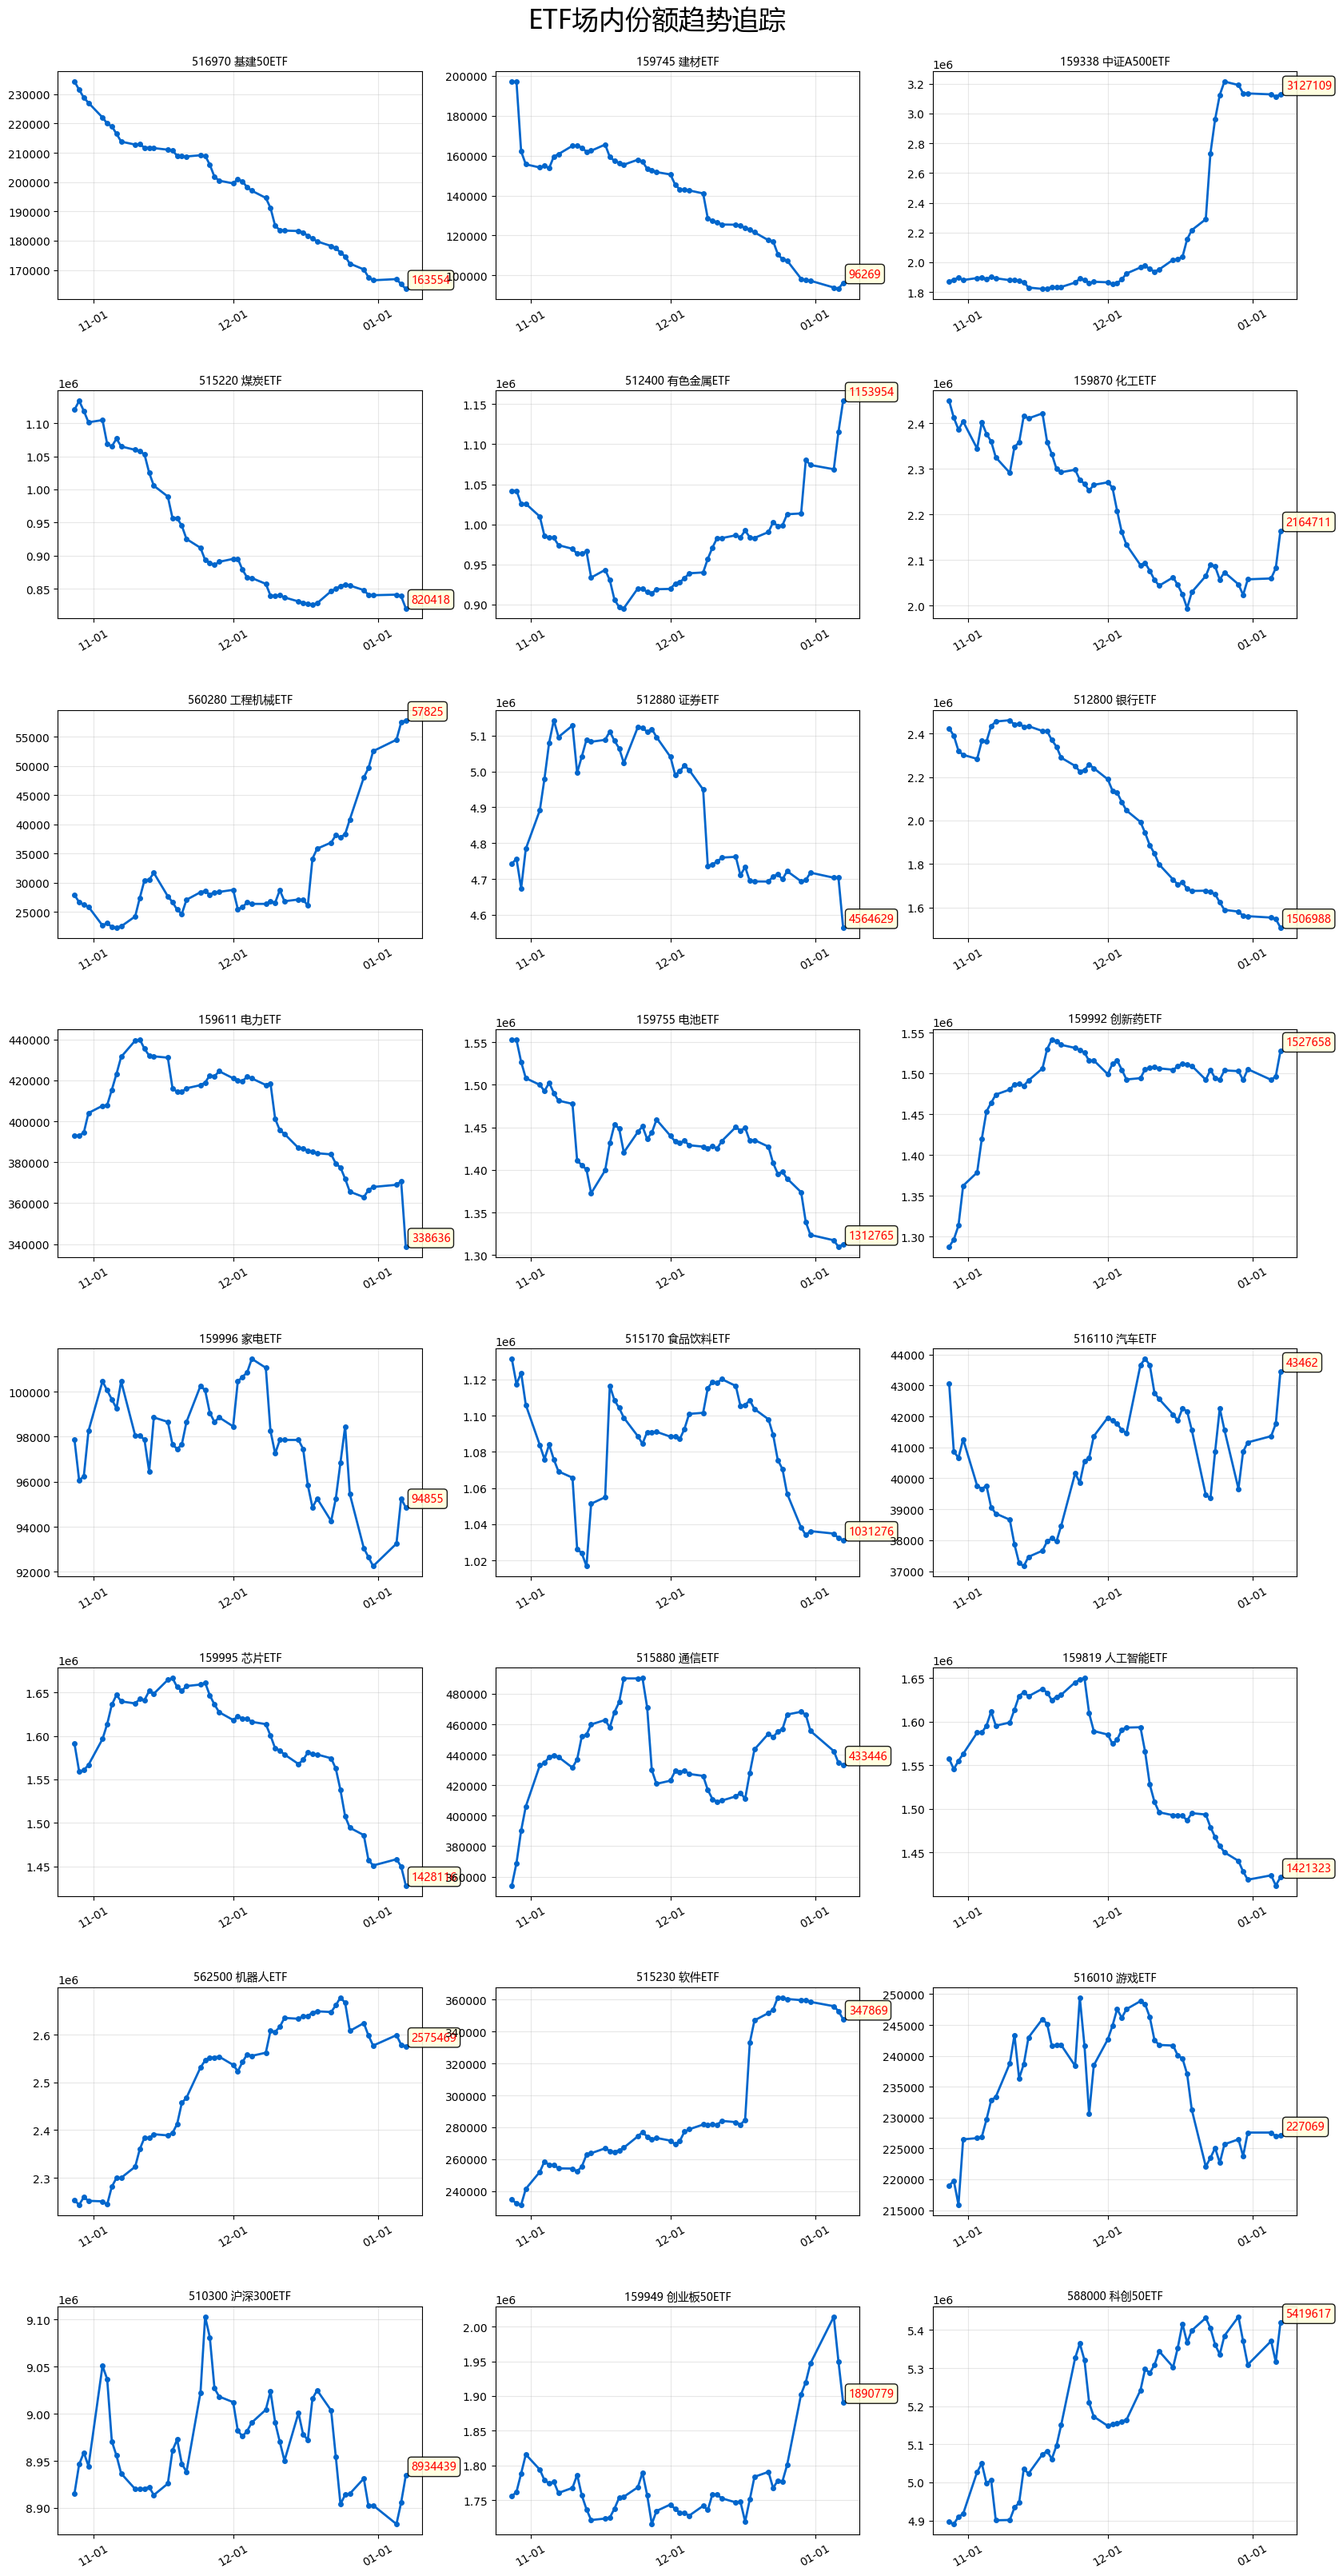
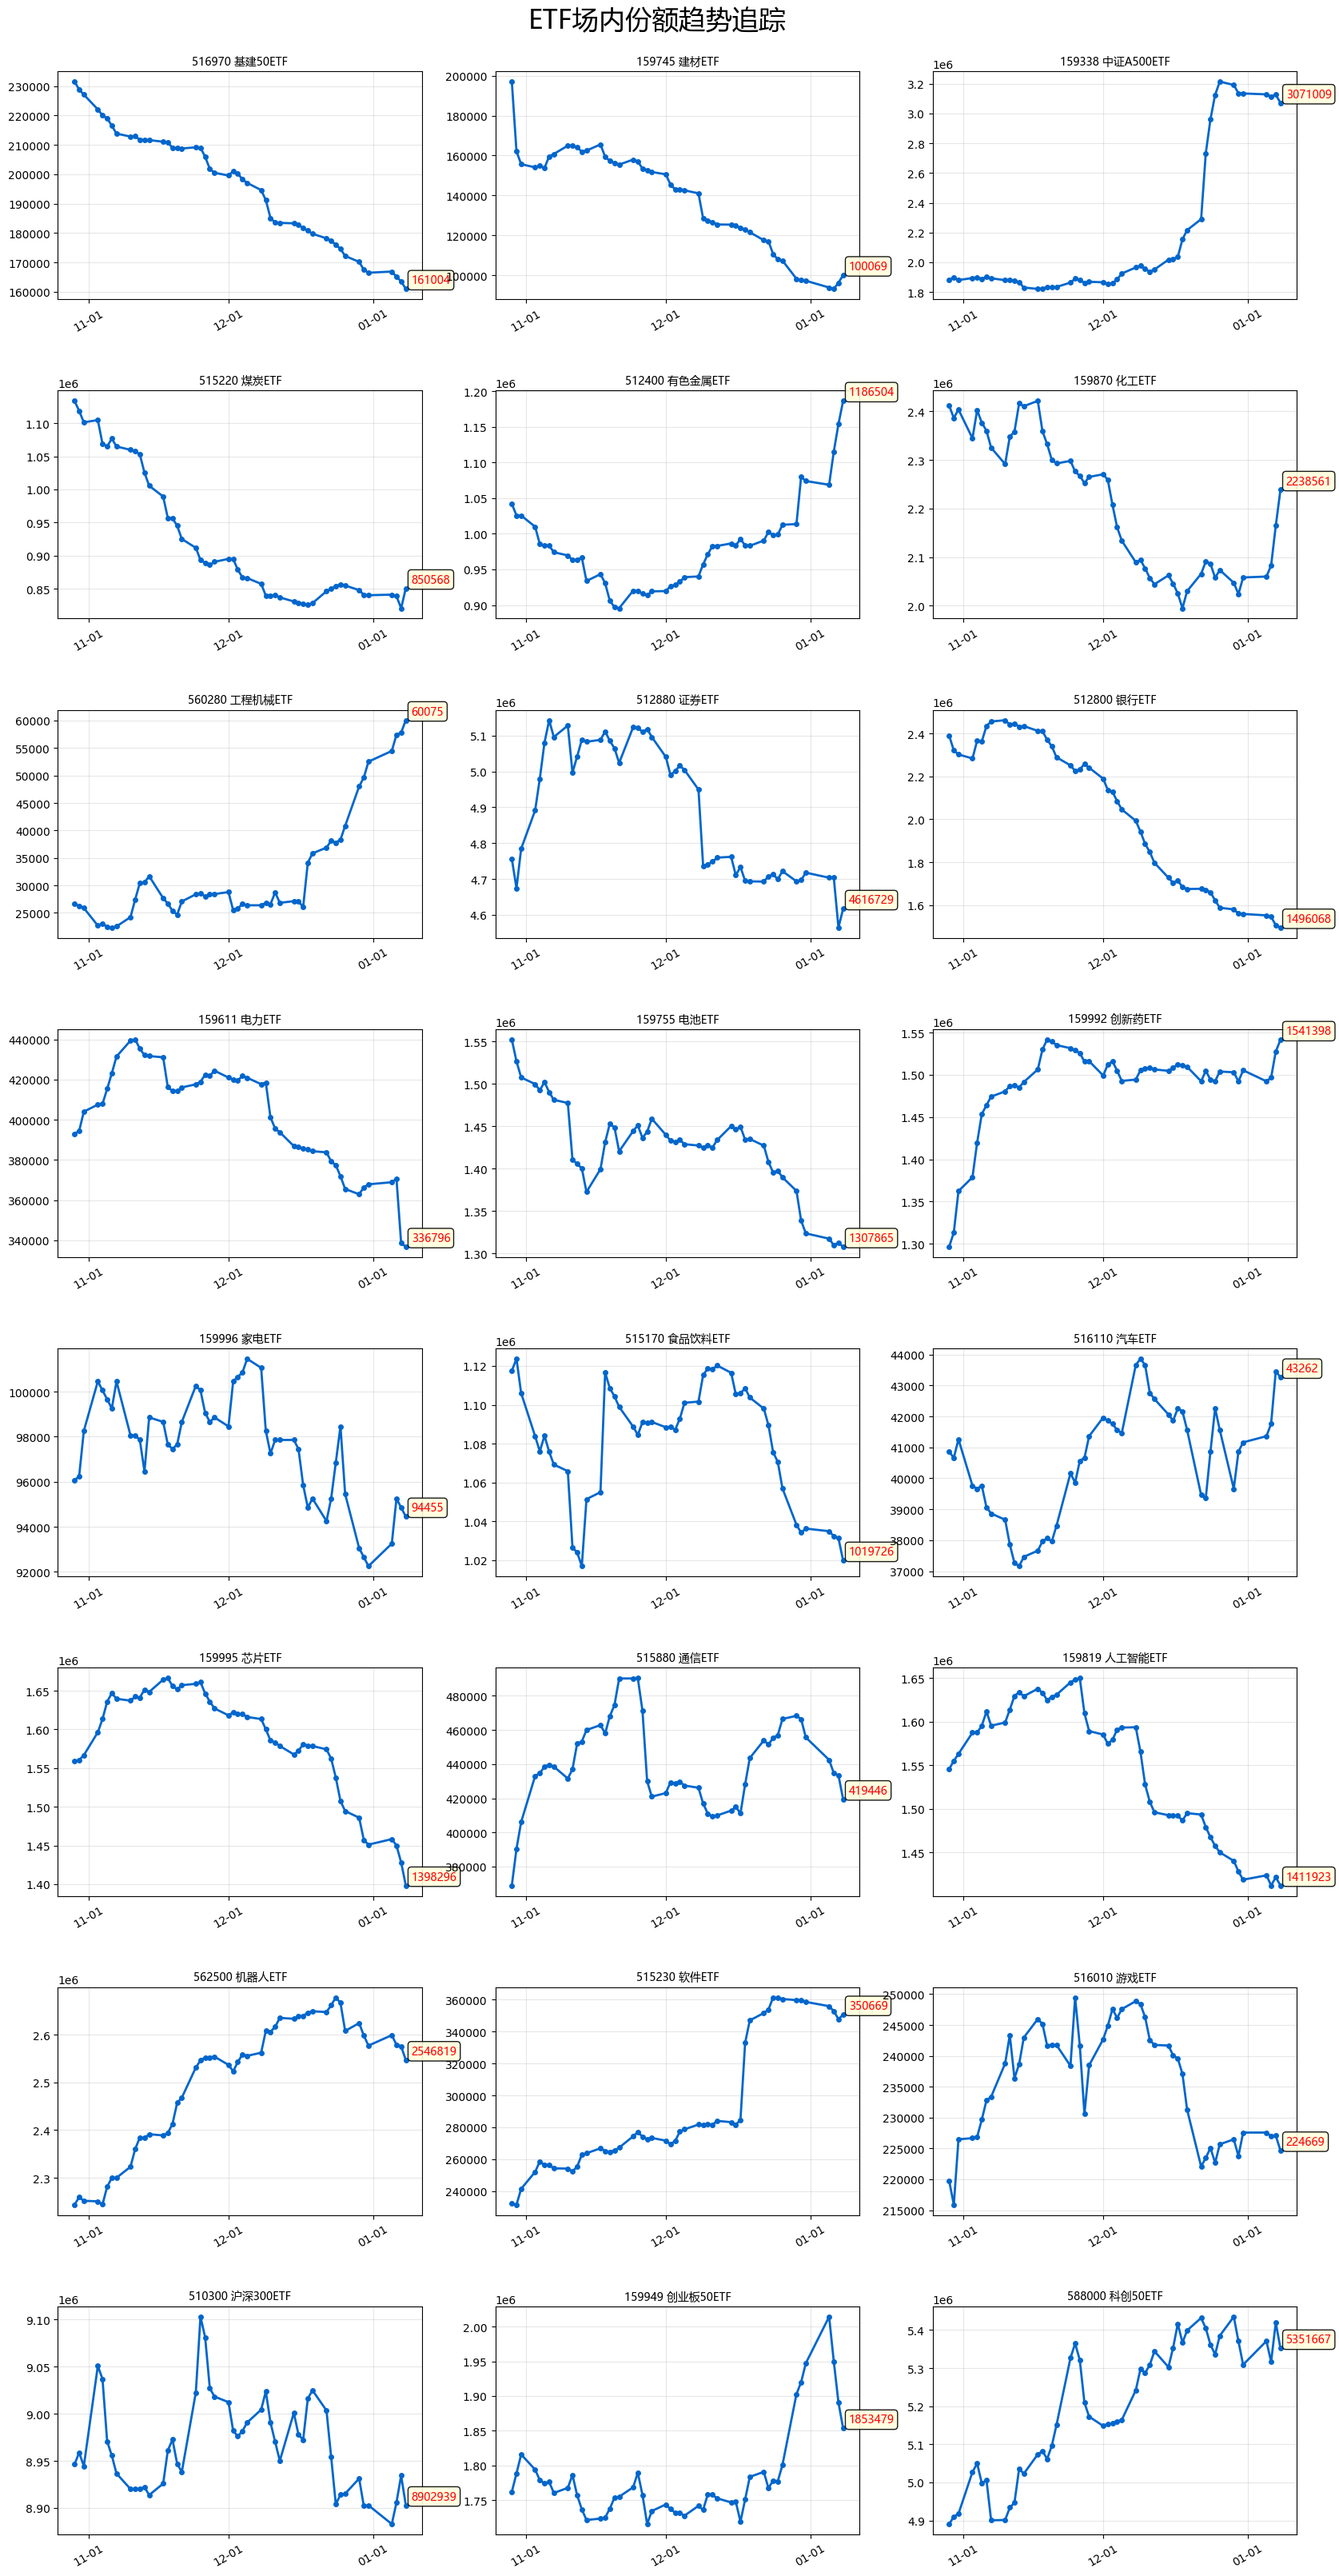
deploy: 2f5e7be9d3dc33e13782f6194d2be9f7460f2970

diff --git a/index.html b/index.html
@@ -42,35 +42,35 @@
 </head>
 <body>
     <h1>ETF 场内份额每日追踪（摘自集思录）</h1>
-    <div class="update-time">更新时间 (北京时间): 2026-01-07 23:31</div>
+    <div class="update-time">更新时间 (北京时间): 2026-01-08 23:32</div>
     
     <div class="content-box">
         <h3 style="margin-top:0; border-bottom: 2px solid #f4f4f4; padding-bottom: 10px;">📊 最新份额排名</h3>
         <ul class="rank-list">
-            <li style='color:red; font-weight:bold;'>1. 沪深300ETF (510300): 8,934,439 万份</li>
-<li style='color:red; font-weight:bold;'>2. 科创50ETF (588000): 5,419,617 万份</li>
-<li style='color:red; font-weight:bold;'>3. 证券ETF (512880): 4,564,629 万份</li>
-<li style='color:black; font-weight:normal;'>4. 中证A500ETF (159338): 3,127,109 万份</li>
-<li style='color:black; font-weight:normal;'>5. 机器人ETF (562500): 2,575,469 万份</li>
-<li style='color:black; font-weight:normal;'>6. 化工ETF (159870): 2,164,711 万份</li>
-<li style='color:black; font-weight:normal;'>7. 创业板50ETF (159949): 1,890,779 万份</li>
-<li style='color:black; font-weight:normal;'>8. 创新药ETF (159992): 1,527,658 万份</li>
-<li style='color:black; font-weight:normal;'>9. 银行ETF (512800): 1,506,988 万份</li>
-<li style='color:black; font-weight:normal;'>10. 芯片ETF (159995): 1,428,116 万份</li>
-<li style='color:black; font-weight:normal;'>11. 人工智能ETF (159819): 1,421,323 万份</li>
-<li style='color:black; font-weight:normal;'>12. 电池ETF (159755): 1,312,765 万份</li>
-<li style='color:black; font-weight:normal;'>13. 有色金属ETF (512400): 1,153,954 万份</li>
-<li style='color:black; font-weight:normal;'>14. 食品饮料ETF (515170): 1,031,276 万份</li>
-<li style='color:black; font-weight:normal;'>15. 煤炭ETF (515220): 820,418 万份</li>
-<li style='color:black; font-weight:normal;'>16. 通信ETF (515880): 433,446 万份</li>
-<li style='color:black; font-weight:normal;'>17. 软件ETF (515230): 347,869 万份</li>
-<li style='color:black; font-weight:normal;'>18. 电力ETF (159611): 338,636 万份</li>
-<li style='color:black; font-weight:normal;'>19. 游戏ETF (516010): 227,069 万份</li>
-<li style='color:black; font-weight:normal;'>20. 基建50ETF (516970): 163,554 万份</li>
-<li style='color:black; font-weight:normal;'>21. 建材ETF (159745): 96,269 万份</li>
-<li style='color:black; font-weight:normal;'>22. 家电ETF (159996): 94,855 万份</li>
-<li style='color:black; font-weight:normal;'>23. 工程机械ETF (560280): 57,825 万份</li>
-<li style='color:black; font-weight:normal;'>24. 汽车ETF (516110): 43,462 万份</li>
+            <li style='color:red; font-weight:bold;'>1. 沪深300ETF (510300): 8,902,939 万份</li>
+<li style='color:red; font-weight:bold;'>2. 科创50ETF (588000): 5,351,667 万份</li>
+<li style='color:red; font-weight:bold;'>3. 证券ETF (512880): 4,616,729 万份</li>
+<li style='color:black; font-weight:normal;'>4. 中证A500ETF (159338): 3,071,009 万份</li>
+<li style='color:black; font-weight:normal;'>5. 机器人ETF (562500): 2,546,819 万份</li>
+<li style='color:black; font-weight:normal;'>6. 化工ETF (159870): 2,238,561 万份</li>
+<li style='color:black; font-weight:normal;'>7. 创业板50ETF (159949): 1,853,479 万份</li>
+<li style='color:black; font-weight:normal;'>8. 创新药ETF (159992): 1,541,398 万份</li>
+<li style='color:black; font-weight:normal;'>9. 银行ETF (512800): 1,496,068 万份</li>
+<li style='color:black; font-weight:normal;'>10. 人工智能ETF (159819): 1,411,923 万份</li>
+<li style='color:black; font-weight:normal;'>11. 芯片ETF (159995): 1,398,296 万份</li>
+<li style='color:black; font-weight:normal;'>12. 电池ETF (159755): 1,307,865 万份</li>
+<li style='color:black; font-weight:normal;'>13. 有色金属ETF (512400): 1,186,504 万份</li>
+<li style='color:black; font-weight:normal;'>14. 食品饮料ETF (515170): 1,019,726 万份</li>
+<li style='color:black; font-weight:normal;'>15. 煤炭ETF (515220): 850,568 万份</li>
+<li style='color:black; font-weight:normal;'>16. 通信ETF (515880): 419,446 万份</li>
+<li style='color:black; font-weight:normal;'>17. 软件ETF (515230): 350,669 万份</li>
+<li style='color:black; font-weight:normal;'>18. 电力ETF (159611): 336,796 万份</li>
+<li style='color:black; font-weight:normal;'>19. 游戏ETF (516010): 224,669 万份</li>
+<li style='color:black; font-weight:normal;'>20. 基建50ETF (516970): 161,004 万份</li>
+<li style='color:black; font-weight:normal;'>21. 建材ETF (159745): 100,069 万份</li>
+<li style='color:black; font-weight:normal;'>22. 家电ETF (159996): 94,455 万份</li>
+<li style='color:black; font-weight:normal;'>23. 工程机械ETF (560280): 60,075 万份</li>
+<li style='color:black; font-weight:normal;'>24. 汽车ETF (516110): 43,262 万份</li>
 
         </ul>
     </div>
